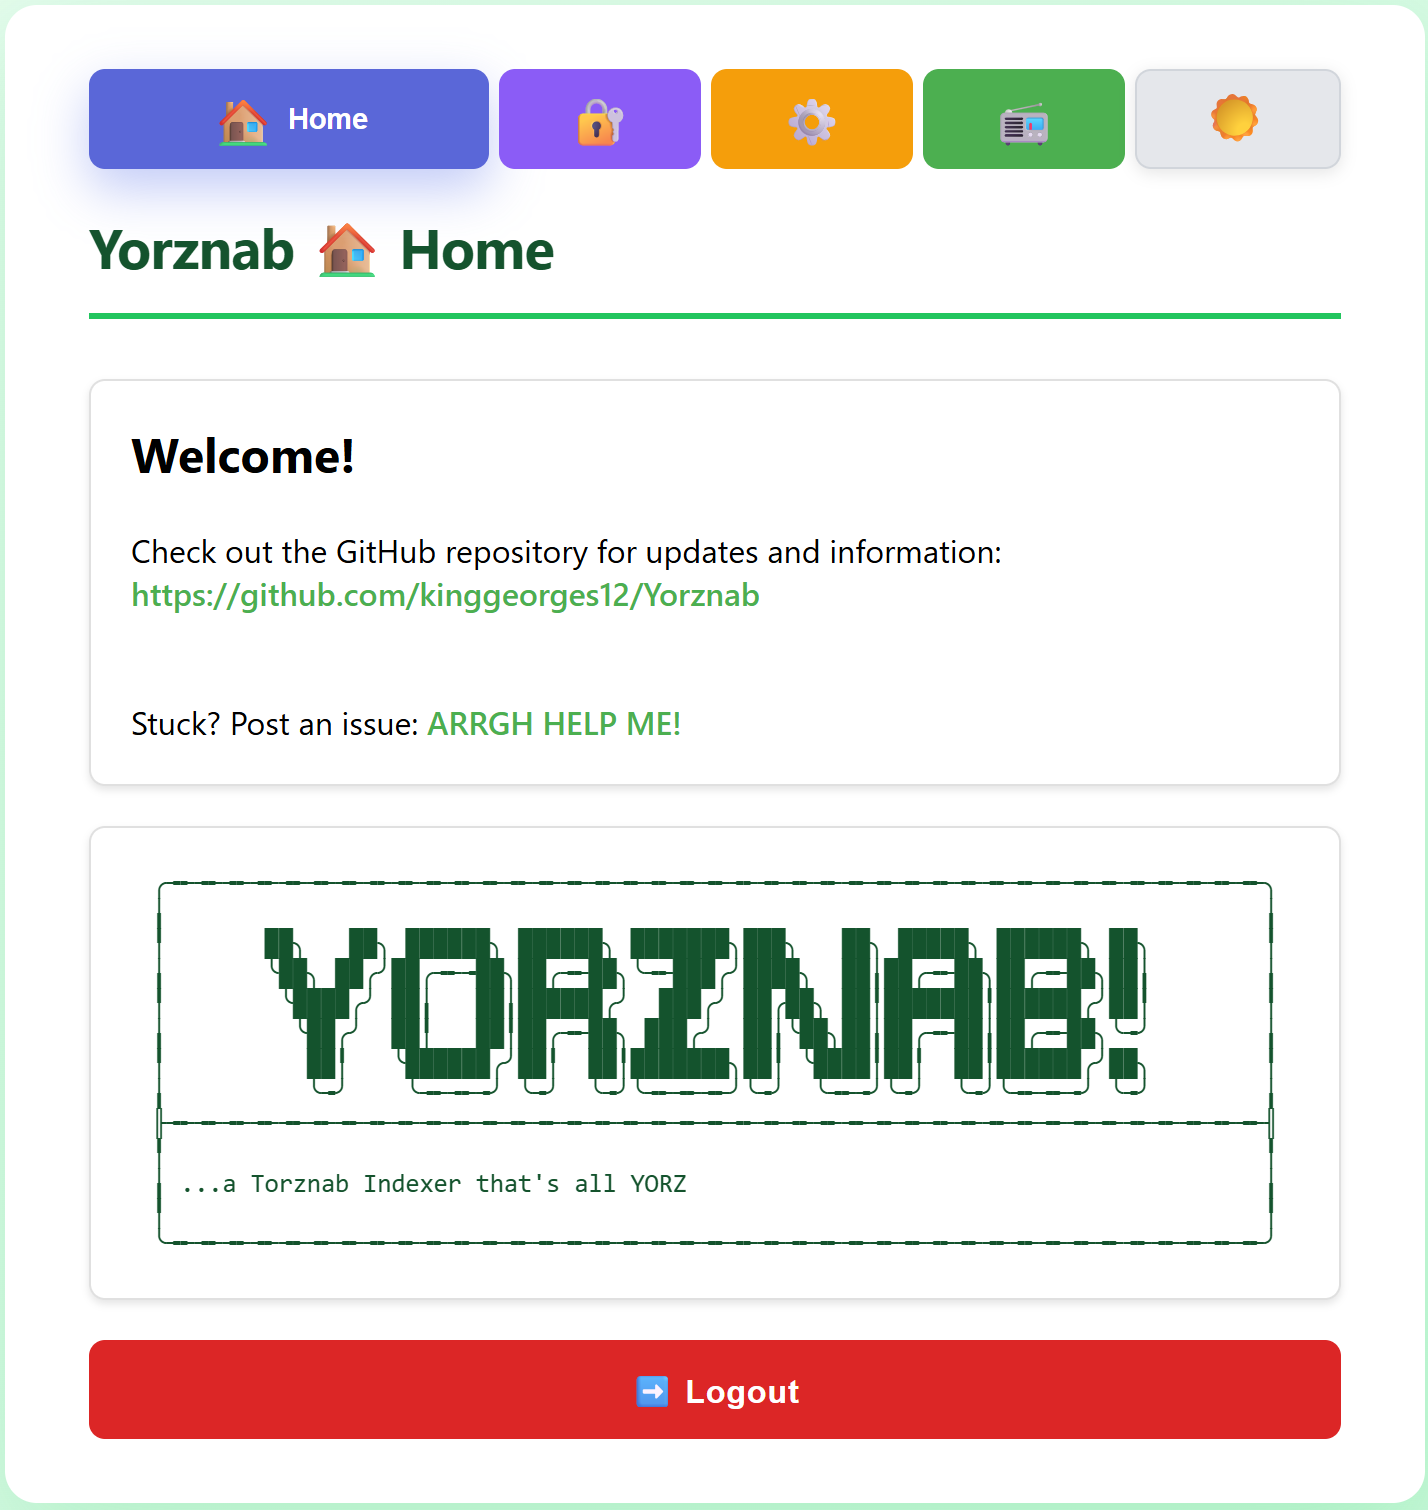
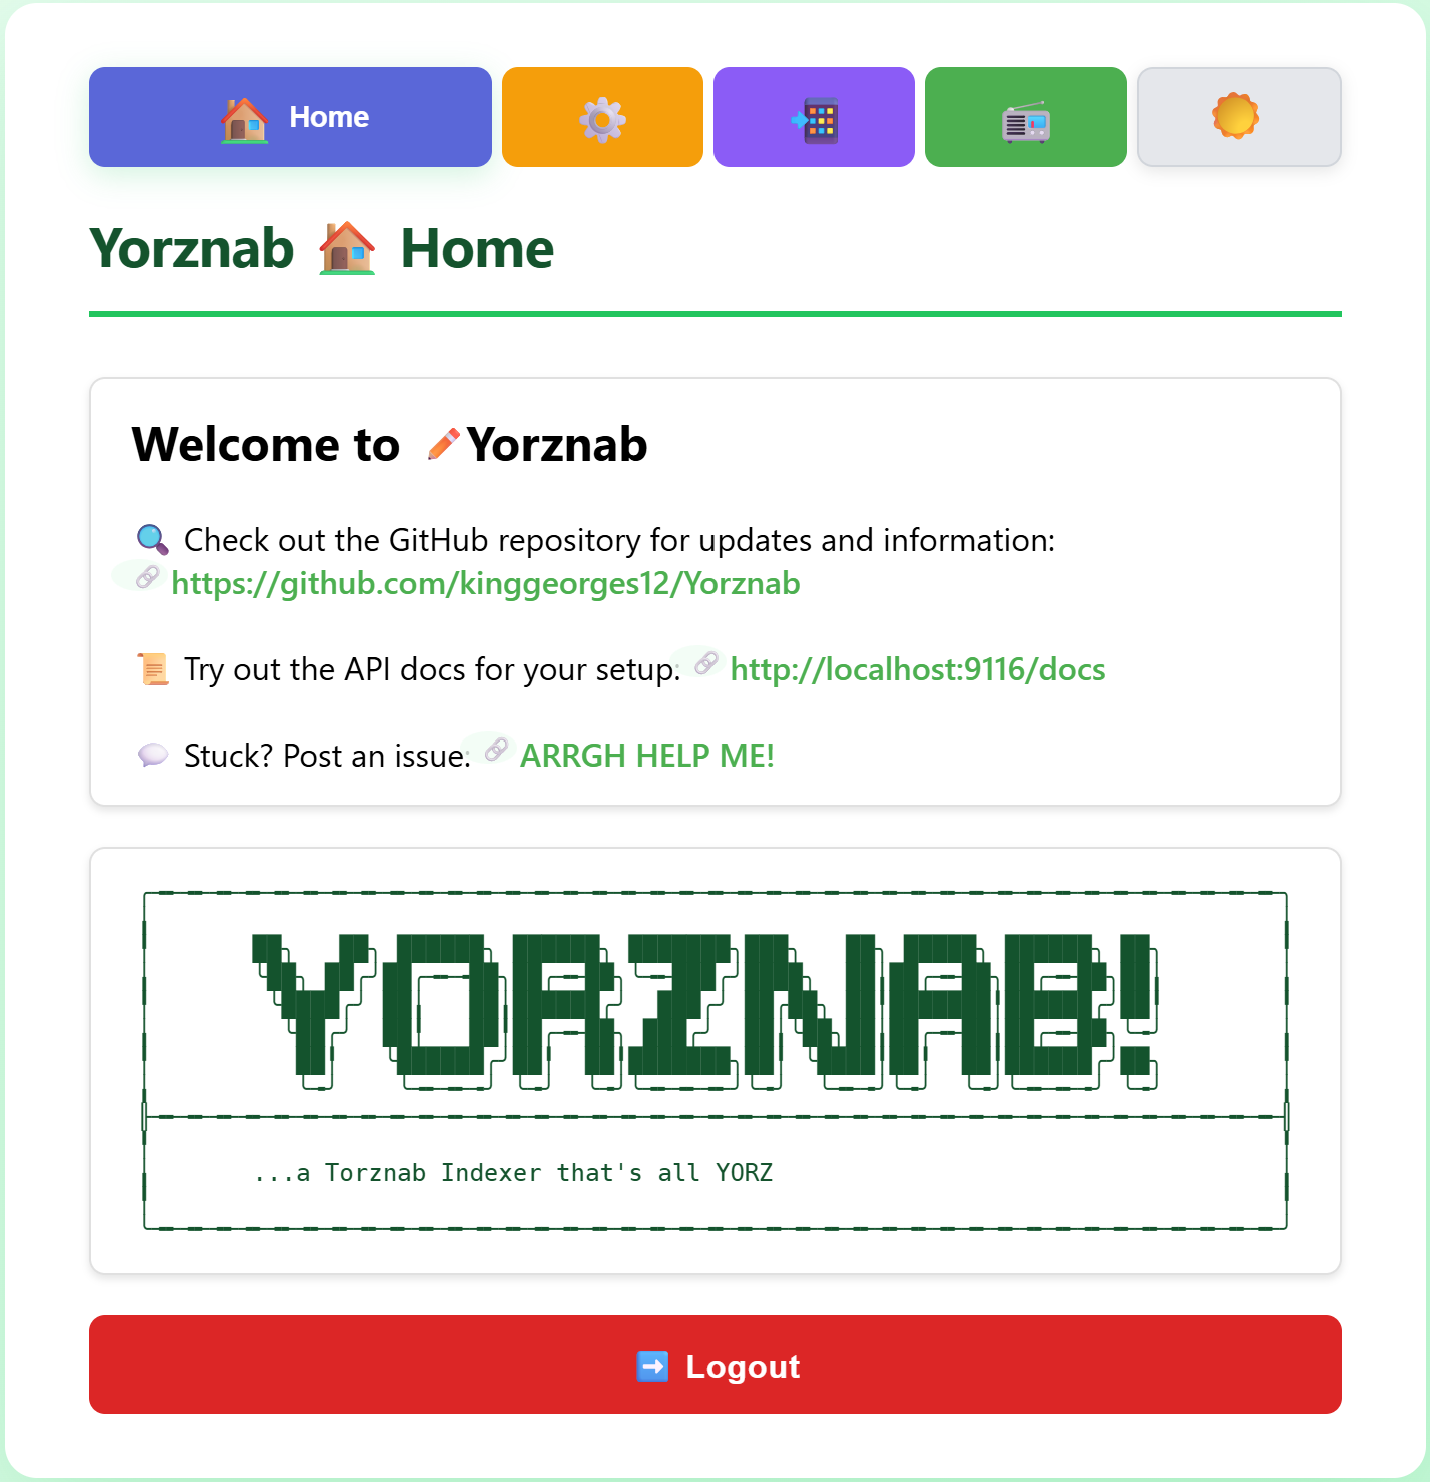
changing to Trackers from tags

diff --git a/server/static/css/web.css b/server/static/css/web.css
@@ -186,7 +186,7 @@ button[type=submit]:active{transform:translateY(0)}
 .key-value:hover{background:var(--key-hover)}
 
 .nav-actions{display:flex;gap:5px;margin-bottom:20px;flex-wrap:wrap}
-button.action-btn{flex:1;min-width:20px;height:50px;padding:8px 1px;font-size:clamp(1rem, 2.5vw, 1.5rem);font-weight:700;display:flex;align-items:center;justify-content:center;white-space:nowrap;position:relative;transition:all .3s ease;border:none;border-radius:8px;cursor:pointer}
+button.action-btn{flex:1;min-width:20px;height:50px;font-size:clamp(1rem, 2.5vw, 1.5rem);font-weight:700;display:flex;align-items:center;justify-content:center;white-space:nowrap;position:relative;transition:all .3s ease;border:none;border-radius:8px;cursor:pointer}
 button.action-btn .btn-label{font-size:clamp(0.2rem, 2.0vw, 0.9rem);font-weight:600;display:inline-block;max-width:0;overflow:hidden;opacity:0;transition:max-width .3s ease,opacity .3s ease,margin .3s ease;white-space:nowrap;margin:0;padding:0}
 button.action-btn .btn-icon{flex-shrink:0;display:inline-flex;align-items:center;justify-content:center}
 button.action-btn:hover,button.active{flex:2}
@@ -295,6 +295,19 @@ button:disabled {
 .status-dot.unhealthy{background:var(--border-error)}
 
 /* a href */
+.nav-actions button > a.plain,
+.nav-actions button > a.plain::before,
+.nav-actions button > a.plain::after,
+.nav-actions button > a.plain:hover,
+.nav-actions button > a.plain:hover::after {
+    /* Reset .plain class - remove all decorators */
+    all: unset;
+    display: flex;
+    align-items: center;
+    justify-content: center;
+    width: 100%;
+    height: 100%;
+}
 a {
     color: var(--link-color);
     text-decoration: none;
@@ -327,11 +340,6 @@ a::before {
 a:hover{color:var(--link-hover)}
 a::after{content:'';position:absolute;bottom:-2px;left:0;width:0;height:2px;background:var(--link-underline);transition:width .3s ease}
 a:hover::after{width:100%}
-
-/* Reset .plain class - remove all decorators */
-a.plain, a.plain::before, a.plain::after, a.plain:hover, a.plain:hover::after {
-    all: unset;
-}
 
 .ascii-line{
     font-size:clamp(0rem, 1.50vw, 0.75rem);

diff --git a/server/static/js/web.js b/server/static/js/web.js
@@ -8,7 +8,7 @@
         const element = document.getElementById(elementId);
         if (!element) return;
         
-        // Get the text content, but handle <br> tags properly
+        // Get the text content
         const text = element.innerText || element.textContent;
         
         if (navigator.clipboard) {

diff --git a/server/web/routers/applications.py b/server/web/routers/applications.py
@@ -113,9 +113,9 @@ async def applications_page(request: Request):
         csrf_token: str
         exceptions: List[str]
     
-    async def init_app(name: str, fn_client: Callable[..., BaseClient], icon_url: str) -> ClientResult:
+    async def init_app(name: str, fn_client: Callable[..., BaseClient], icon_url: str, path_url: str = '') -> ClientResult:
         # Build app items html
-        def build_html_app(name: str, status: str, client_url: str, icon_url: str) -> str:
+        def build_html_app(name: str, status: str, client_url: str, icon_url: str, path_url: str = '') -> str:
             placeholder_image = f' style="background-image: url(\'{RouteHandler.get_static_url("favicon.ico")}\')"' if client_url else ''
             return f'''<!-- {name} -->
                 <div class="app-item">
@@ -127,7 +127,7 @@ async def applications_page(request: Request):
                         <span class="warning-badge" title="{name} app image did not load">⚠</span>
                     </div>
                     <div class="app-info">
-                        <a href="{client_url if client_url else '#'}" target="_blank" rel="noreferrer">
+                        <a href="{client_url + path_url if client_url else '#'}" target="_blank" rel="noreferrer">
                             <span>
                                 <span class="status-dot { 'healthy' if status else 'unhealthy' }"></span>
                                 <span class="app-name">{name}</span>
@@ -156,7 +156,7 @@ async def applications_page(request: Request):
         if client is not None and client.ServerNameHtml:
             name = client.ServerNameHtml
         client_url = client.Url if client and client.Url else None
-        html_app = build_html_app(name=name, status=status, client_url=client_url, icon_url=icon_url)
+        html_app = build_html_app(name=name, status=status, client_url=client_url, path_url=path_url, icon_url=icon_url)
 
         return ClientResult(
             client=client,
@@ -170,19 +170,19 @@ async def applications_page(request: Request):
     # Create tasks with names
     tasks = [
         asyncio.create_task(
-            init_app('Radarr', lambda: ArrClient(ArrType.Radarr), 'https://avatars.githubusercontent.com/u/25025331'),
+            init_app(name='Radarr', fn_client=lambda: ArrClient(ArrType.Radarr), icon_url='https://avatars.githubusercontent.com/u/25025331', path_url='/settings/indexers'),
             name='Radarr'
         ),
         asyncio.create_task(
-            init_app('Sonarr', lambda: ArrClient(ArrType.Sonarr), 'https://avatars.githubusercontent.com/u/1082903'),
+            init_app(name='Sonarr', fn_client=lambda: ArrClient(ArrType.Sonarr), icon_url='https://avatars.githubusercontent.com/u/1082903', path_url='/settings/indexers'),
             name='Sonarr'
         ),
         asyncio.create_task(
-            init_app('Seerr', lambda: SeerrClient(), 'https://avatars.githubusercontent.com/u/101442446'),
+            init_app(name='Seerr', fn_client=lambda: SeerrClient(), icon_url='https://avatars.githubusercontent.com/u/101442446', path_url='/settings/notifications/webhook'),
             name='Seerr'
         ),
         asyncio.create_task(
-            init_app('qBittorrent', lambda: QBitClient(), 'https://upload.wikimedia.org/wikipedia/commons/thumb/6/66/New_qBittorrent_Logo.svg/1280px-New_qBittorrent_Logo.svg.png'),
+            init_app(name='qBittorrent', fn_client=lambda: QBitClient(), icon_url='https://upload.wikimedia.org/wikipedia/commons/thumb/6/66/New_qBittorrent_Logo.svg/1280px-New_qBittorrent_Logo.svg.png'),
             name='qBittorrent'
         ),
     ]    

diff --git a/server/rss/FeedGenerator.py b/server/rss/FeedGenerator.py
@@ -28,8 +28,8 @@ class FeedGenerator:
     def PublishPath(self) -> Path: return self._feed_config.path
 
     @property
-    def Tags(self) -> FilterTags | None:
-        return self.Config.tags if self.Config else None
+    def Trackers(self) -> FilterTags | None:
+        return self.Config.Trackers if self.Config else None
 
     def App(self, server_type: ArrType) -> FilterApp | None: 
         match server_type:
@@ -46,13 +46,13 @@ class FeedGenerator:
 
     def get_tracker_tag(self, tracker_name: str) -> str:
         """Get the tag for a specific tracker name"""
-        return self.Tags.tracker_tags.get(tracker_name) if self.Tags and self.Tags.tracker_tags else None
+        return self.Trackers.tracker_tags.get(tracker_name) if self.Trackers and self.Trackers.tracker_tags else None
 
     # -----------------------------
     # Optimizer
     # -----------------------------
     def optimize_results(self, results: list[dict[str, Any]], server_type: ArrType, request_obj: Any) -> list[dict[str, Any]]:
-        TAGS = self.Tags
+        TRACKERS = self.Trackers
         APP = self.App(server_type=server_type)
         WEIGHTS = APP.weights if APP else FilterWeights()
         REQUIRED_KEYS = ["tags", "category", "lastAdded", "jackett"]
@@ -80,7 +80,7 @@ class FeedGenerator:
                 if jackett_match:
                     jackett_tag = jackett_match.group(1)
                     source_tag = self.get_tracker_tag(jackett_tag)
-                    if TAGS.remove_jackett_tags if TAGS else self._default_remove_jackett_tags:
+                    if TRACKERS.remove_jackett_tags if TRACKERS else self._default_remove_jackett_tags:
                         r["fileName"] = file_name[jackett_match.end():]
                         r["jackett"] = jackett_tag
             r["tracker_tag"] = source_tag # Tags for filtering
@@ -111,9 +111,9 @@ class FeedGenerator:
 
         # Filter and sort
         filtered = results
-        if TAGS and TAGS.tracker_tags_only:
+        if TRACKERS and TRACKERS.tracker_tags_only:
             filtered = [r for r in filtered if r.get("tracker_tag") is not None]
-        elif TAGS and TAGS.tracker_tags_skip:
+        elif TRACKERS and TRACKERS.tracker_tags_skip:
             filtered = [r for r in filtered if r.get("tracker_tag") is None]
         if WEIGHTS and WEIGHTS.min_score:
             filtered = [r for r in filtered if r.get("score", 0.0) >= WEIGHTS.min_score]

diff --git a/server/utils/docs.py b/server/utils/docs.py
@@ -83,6 +83,35 @@ def create_openapi(app):
                 new_paths[path] = item
             openapi_schema["paths"] = new_paths
         
+        # Remove csrf_token from all schema definitions
+        if "components" in openapi_schema and "schemas" in openapi_schema["components"]:
+            schemas = openapi_schema["components"]["schemas"]
+            
+            # Iterate through all schemas
+            for schema_name, schema_content in list(schemas.items()):
+                # Remove csrf_token from properties if it exists
+                if "properties" in schema_content:
+                    if "csrf_token" in schema_content["properties"]:
+                        del schema_content["properties"]["csrf_token"]
+                    
+                    # Also clean up required fields if csrf_token was required
+                    if "required" in schema_content:
+                        if "csrf_token" in schema_content["required"]:
+                            schema_content["required"].remove("csrf_token")
+                            # Remove required entirely if empty
+                            if not schema_content["required"]:
+                                del schema_content["required"]
+                    
+                    # Handle nested schemas (for allOf, anyOf, etc.)
+                    # This is useful if you have schemas that reference other schemas
+                    for field in ["allOf", "anyOf", "oneOf"]:
+                        if field in schema_content:
+                            for sub_schema in schema_content[field]:
+                                if "$ref" in sub_schema:
+                                    # You might want to recursively clean referenced schemas
+                                    # but they'll be handled in the main loop
+                                    pass
+                                
         app.openapi_schema = openapi_schema
         return app.openapi_schema
     

diff --git a/server/web/routers/auth.py b/server/web/routers/auth.py
@@ -112,7 +112,7 @@ async def login_page(request: Request):
 
     login_button = f'''
                 <button type="submit">💾 Save Login Passkey</button>
-                <p class="hint-message">You can save this login passkey in your browser's keychain after clicking this button.</p>
+                <p class="hint-message">You can save the Login Passkey in your browser's keychain after clicking this button.</p>
                 ''' if first_time else f'''
                 <button type="submit">👤 Login</button>'''
 
@@ -132,7 +132,7 @@ async def login_page(request: Request):
                 <input type="text" value="{FASTAPI_USER}" autocomplete="off" name="username" style="display:none">
                 <div class="form-group">
                     <div class="password-wrapper">
-                        <input type="password" value="{temp_passkey}" autocomplete="off" id="{ID_NAME}" name="passkey" placeholder="{ID_NAME}" required>
+                        <input type="password" value="{temp_passkey}" autocomplete="off" id="{ID_NAME}" name="passkey" required>
                         <button type="button" class="toggle-btn" {"onload" if first_time else ""} id="toggleBtn" aria-label="Toggle password visibility">
                             <span class="eye-icon">👁</span>
                         </button>
@@ -159,7 +159,7 @@ async def login_submit(
     username: str = Form(...),
     passkey: str = Form(...),
     csrf_token: str = Form(""),
-    x_csrf_token: str = Header(None, alias="X-CSRF-Token")
+    x_csrf_token: str = Header(None, alias="X-CSRF-Token") #TODO: add include_in_schema=False and use API_KEY as alternative
 ):
     csrf_token_form = x_csrf_token or csrf_token
     

diff --git a/server/main.py b/server/main.py
@@ -54,7 +54,7 @@ app.include_router(webhook.router)
 app.include_router(web_routers)
 
 # Mount default routes for default route to home
-@app.api_route('/', methods=["GET"])
+@app.api_route('/', methods=["GET"], include_in_schema=False)
 async def redirect_to_home(request: Request):
     url = request.url
     new_path = f"{RouteHandler.HOME}"
@@ -62,14 +62,14 @@ async def redirect_to_home(request: Request):
     return RedirectResponse(url=url.replace(path=new_path), status_code=http_status.HTTP_307_TEMPORARY_REDIRECT)
 
 # Mount default routes for API to indexer
-@app.api_route(RouteHandler.API, methods=["GET", "POST", "PUT", "DELETE", "PATCH", "OPTIONS", "HEAD"])
+@app.api_route(RouteHandler.API, methods=["GET", "POST", "PUT", "DELETE", "PATCH", "OPTIONS", "HEAD"], include_in_schema=False)
 async def redirect_to_indexer(request: Request):
     url = request.url
     new_path = f"{RouteHandler.INDEXER}"
     print(f"Redirecting request from {url.path} to indexer")
     return RedirectResponse(url=url.replace(path=new_path), status_code=http_status.HTTP_307_TEMPORARY_REDIRECT)
 
-@app.api_route(RouteHandler.API + "/{path:path}", methods=["GET", "POST", "PUT", "DELETE", "PATCH", "OPTIONS", "HEAD"])
+@app.api_route(RouteHandler.API + "/{path:path}", methods=["GET", "POST", "PUT", "DELETE", "PATCH", "OPTIONS", "HEAD"], include_in_schema=False)
 async def redirect_to_v1(path: str, request: Request):
     url = request.url
     print(f"Redirecting request from {url.path} to v1")

diff --git a/server/cron/CronRunner.py b/server/cron/CronRunner.py
@@ -4,10 +4,7 @@ from croniter import croniter
 import asyncio
 from datetime import datetime, timedelta
 
-# First time message
-from server.utils.keystore import KeyStore
-HELLO_WORLD = 'This is your first run! Welcome to Yorznab 🤗' if not KeyStore.exists() else None
-
+# Import modules
 from server.utils.customlogger import CustomLogger
 from server.utils.feedconfig import FeedConfig
 from server.utils.timeformatter import TimezoneAware
@@ -191,7 +188,7 @@ class CronRunner:
                 if need_refresh:
                     await cls.refresh_rss(feed_configs=need_refresh)
                     # Wait for the user to input settings for apps
-                    mandatory_wait = 300 if HELLO_WORLD else 60
+                    mandatory_wait = 60
                     cls._instance.LOGGER.debug(f"⌛ Waiting {mandatory_wait} seconds after refreshing new feed to prevent looping")
                     await cls.wait_refresh_cron(mandatory_wait)
                     # Recheck oldest feed file and continue

diff --git a/server/web/common.py b/server/web/common.py
@@ -73,7 +73,7 @@ def navigation(current_route: str = '') -> str:
         active = " active" if current_route == route or current_route in route else ""
         buttons += f'''
             <button class="action-btn {cls}{active}">
-                <a class="plain" href="{route}">
+                <a href="{route}" class="plain">
                     {emoji} <span class="btn-label">{label}</span>
                 </a>
             </button>'''
@@ -82,7 +82,9 @@ def navigation(current_route: str = '') -> str:
         <div class="nav-actions">
             {buttons if current_route else ''}
             <button class="action-btn theme-toggle-btn" onclick="toggleTheme()">
-                <span class="btn-icon">🌙</span>
-                <span class="btn-label">Dark</span>
+                <a href="#" class="plain">
+                    <span class="btn-icon">🌙</span>
+                    <span class="btn-label">Dark</span>
+                </a>
             </button>
         </div>'''

diff --git a/server/utils/feedconfig.py b/server/utils/feedconfig.py
@@ -43,8 +43,8 @@ class FilterApp:
     unknown_runtime: Optional[float] = None
     quality_search: Optional[list[str]] = field(default_factory=list)
     favorite_sites: Optional[list[str]] = field(default_factory=list)
-    required_mbps: Optional[FilterRange] = field(default_factory=FilterRange)
     best_mbps: Optional[FilterRange] = field(default_factory=FilterRange)
+    required_mbps: Optional[FilterRange] = field(default_factory=FilterRange)
 
 @dataclass
 class FilterTags:
@@ -55,7 +55,7 @@ class FilterTags:
 
 @dataclass
 class FeedFilter:
-    tags: Optional[FilterTags] = field(default_factory=FilterTags)
+    Trackers: Optional[FilterTags] = field(default_factory=FilterTags)
     Movies: Optional[FilterApp] = field(default_factory=FilterApp)
     TV: Optional[FilterApp] = field(default_factory=FilterApp)
 

diff --git a/server/utils/json_editor.py b/server/utils/json_editor.py
@@ -38,9 +38,9 @@ class JsonEditor:
         "unknown_runtime": "Default runtime (minutes) when unknown in Jellyseerr",
         "quality_search": "Search terms that trigger quality score",
         "favorite_sites": "List of favorite sites",
-        "required_mbps": "Mbps range - drops torrents outside this",
         "best_mbps": "Preferred Mbps range",
-        "tags": "Tag filtering and processing",
+        "required_mbps": "Mbps range - drops torrents outside this",
+        "Trackers": "Tracker-specific filter settings",
         "Movies": "Movie-specific filter settings",
         "TV": "TV-specific filter settings",
     }

diff --git a/server/web/routers/feeds.py b/server/web/routers/feeds.py
@@ -65,10 +65,6 @@ async def feeds(request: Request):
                         <span class="info-value" id="delete-icon-{feed_config.feed_name}">🗑</span>
                     </span>
                 </div>
-                <div class="info-row">
-                    <div class="info-btn" onclick="copyKey('apiPath-{feed_config.feed_name}')">📋 API Path</div>
-                    <div class="key-value" id="apiPath-{feed_config.feed_name}">{f"{RouteHandler.INDEXER}/{feed_config.feed_name}"}</div>
-                </div>
             </div>'''
 
     editor_csrf_token = gen_csrf_token()
